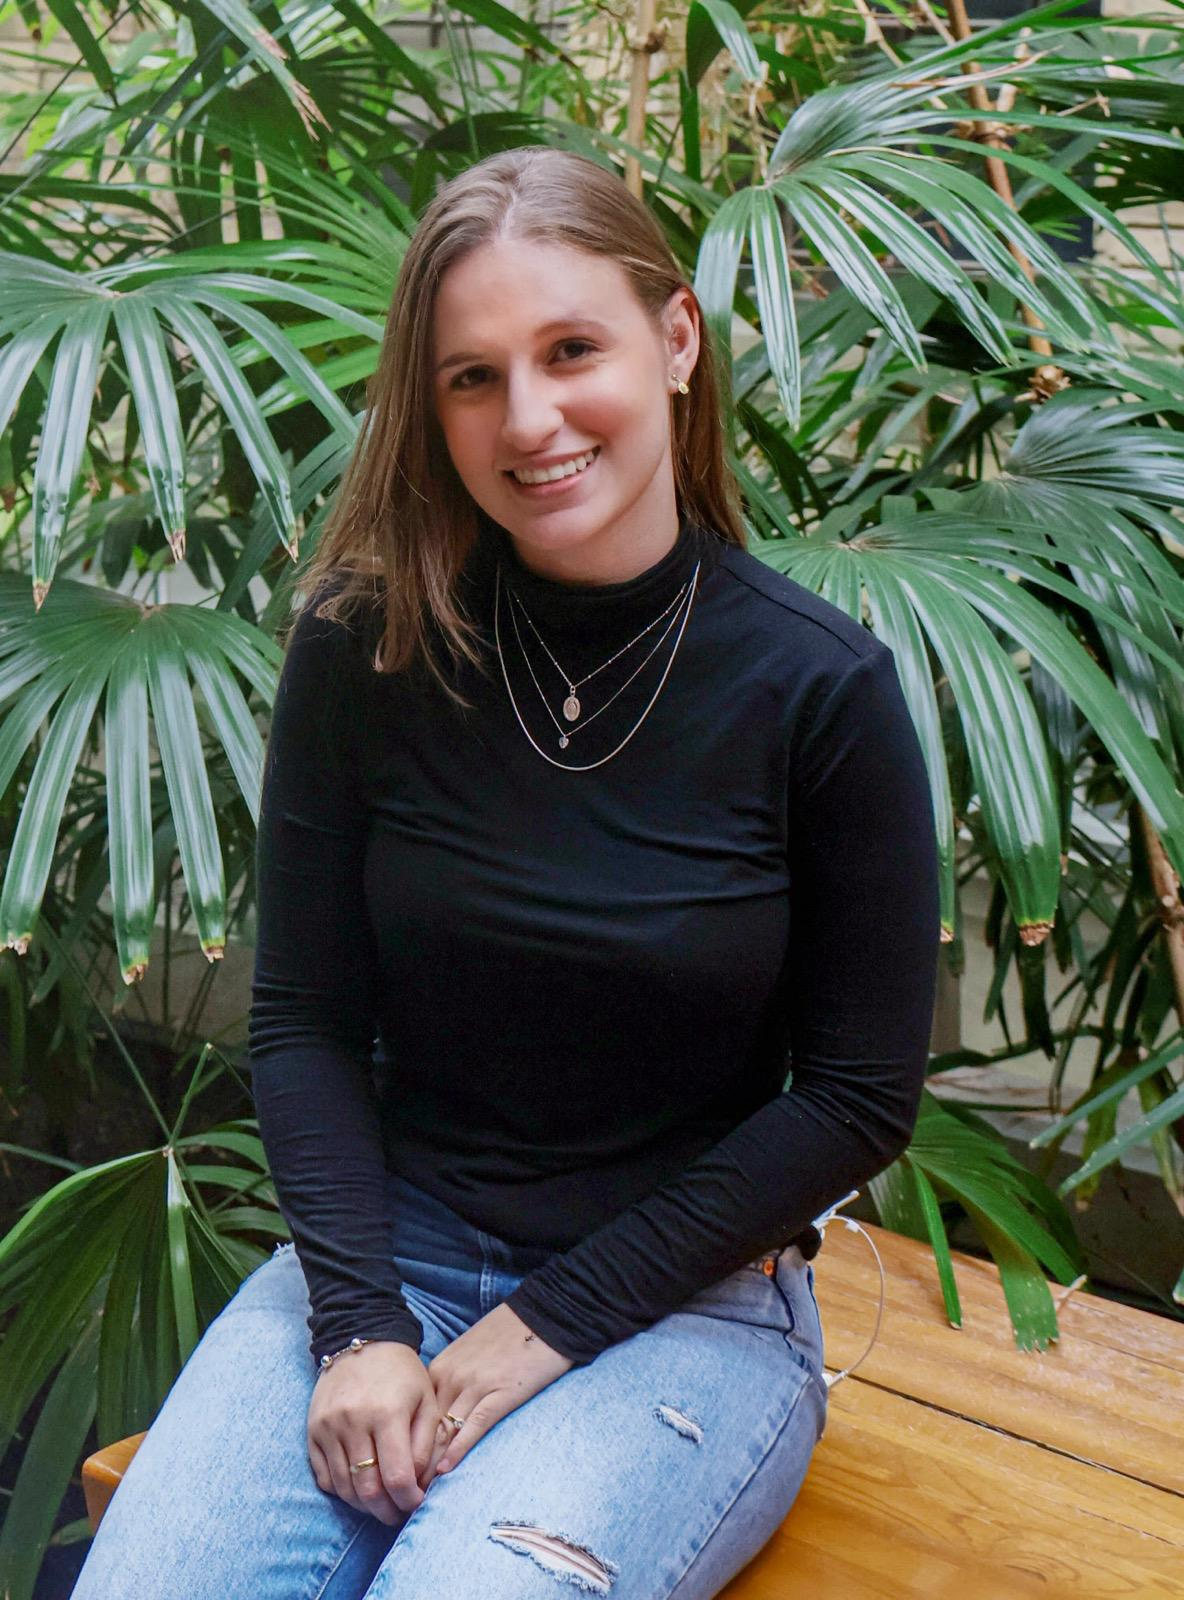
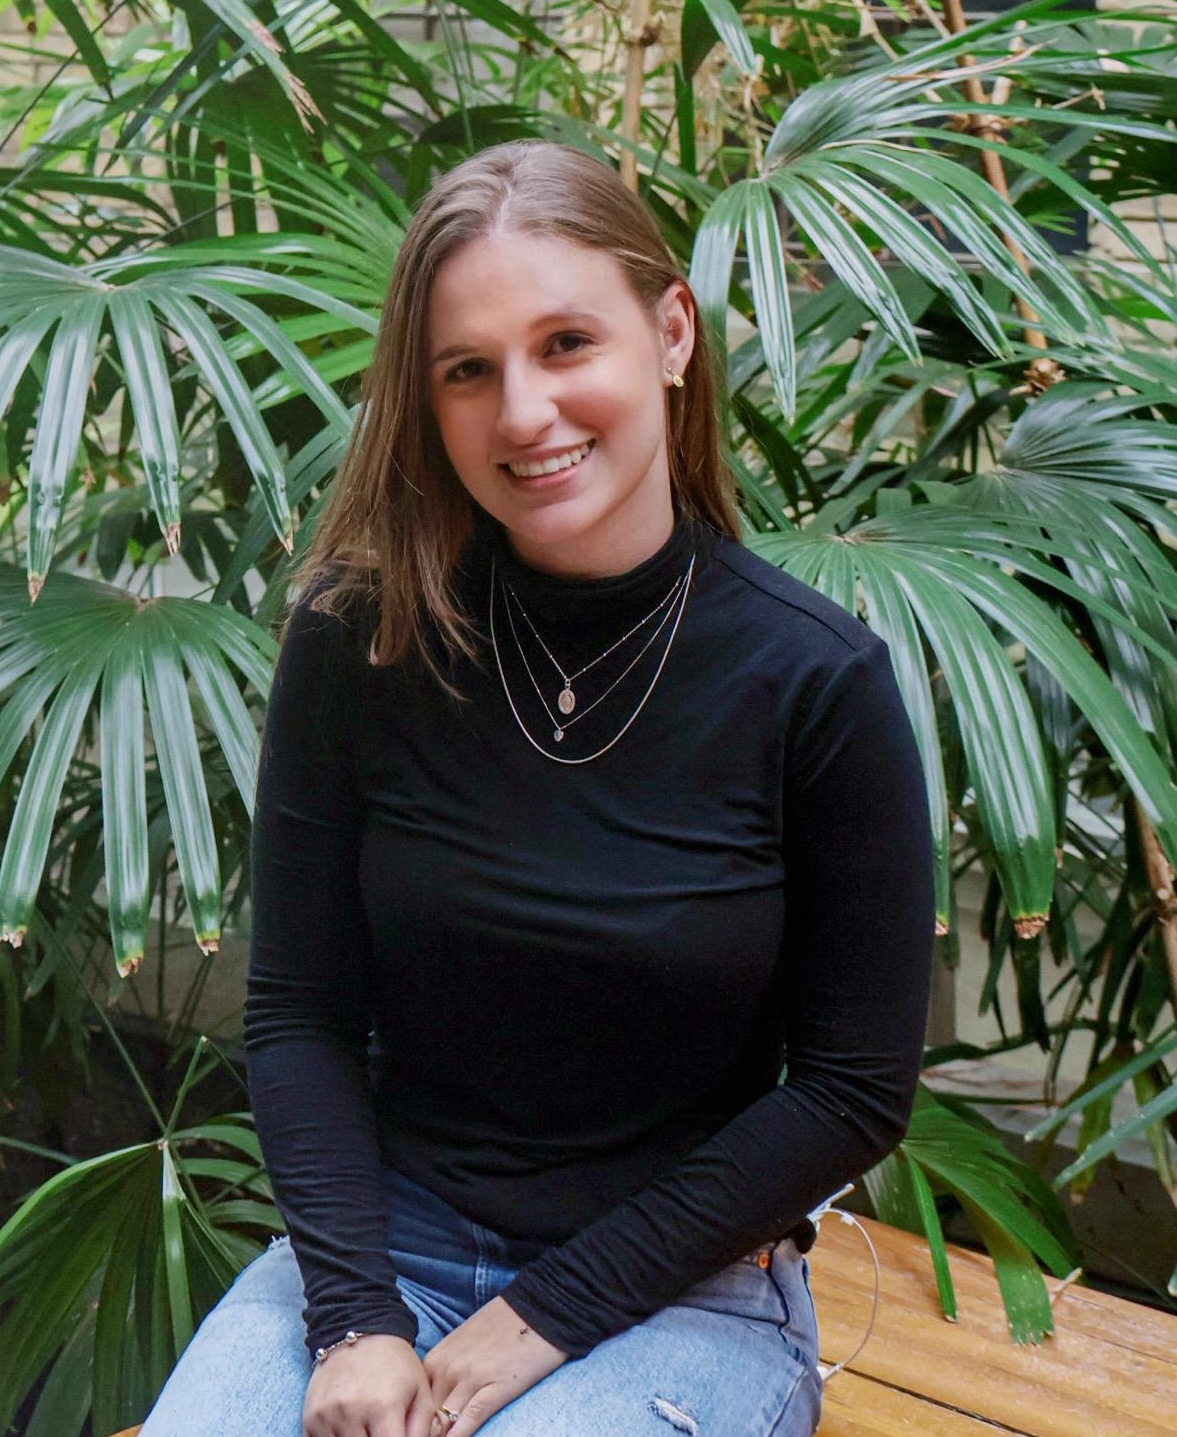
Added pictures

diff --git a/src/components/Board/Member/view.tsx b/src/components/Board/Member/view.tsx
@@ -10,11 +10,16 @@ export const MemberView: ComponentType = ({ boardMember }) => {
       key={boardMember.name}
       className="flex flex-col items-center bg-white p-8 rounded-lg shadow-lg hover:shadow-2xl transition"
     >
-      <img
+      {/* <img
         src={boardMember.picture}
         alt={boardMember.name}
         className="w-40 h-40 md:w-48 md:h-48 rounded-full object-cover mb-4"
-      />
+      /> */}
+      <img
+  src={boardMember.picture}
+  alt={boardMember.name}
+  className="w-40 h-40 md:w-48 md:h-48 rounded-full object-cover object-center mb-4"
+/>
       <h3 className="text-xl font-bold text-green-900">{boardMember.name}</h3>
       <p className="text-yellow-600 mb-2">
         {commonLocale.get(boardMember.position)}

diff --git a/src/utilities/boardMembers.ts b/src/utilities/boardMembers.ts
@@ -21,12 +21,12 @@ export const boardMembers: BoardMember[] = [
   },
   {
     name: "Luísa Gerhard",
-    picture: "/gaio.jpeg",
+    picture: "/externalRelations.jpeg",
     major: "Pharmacology and Biomed Toxicology",
     year: "3rd",
     position: "externalRelations",
     city: "São Paulo, SP",
-    linkedin: "https://www.linkedin.com/in/lu%C3%ADsa-gerhard-563743260/",
+    linkedin: "https://www.linkedin.com/in/lu%C3%ADsa-naomi-gerhard-563743260/",
   },
   {
     name: "Gaio Augusto",
@@ -93,7 +93,7 @@ export const boardMembers: BoardMember[] = [
   },
   {
     name: "Yasmin Mendonça",
-    picture: "/liliana.jpeg",
+    picture: "/utmRep.jpeg",
     major: "Communications (CCIT)",
     year: "2nd",
     position: "utmRep",
